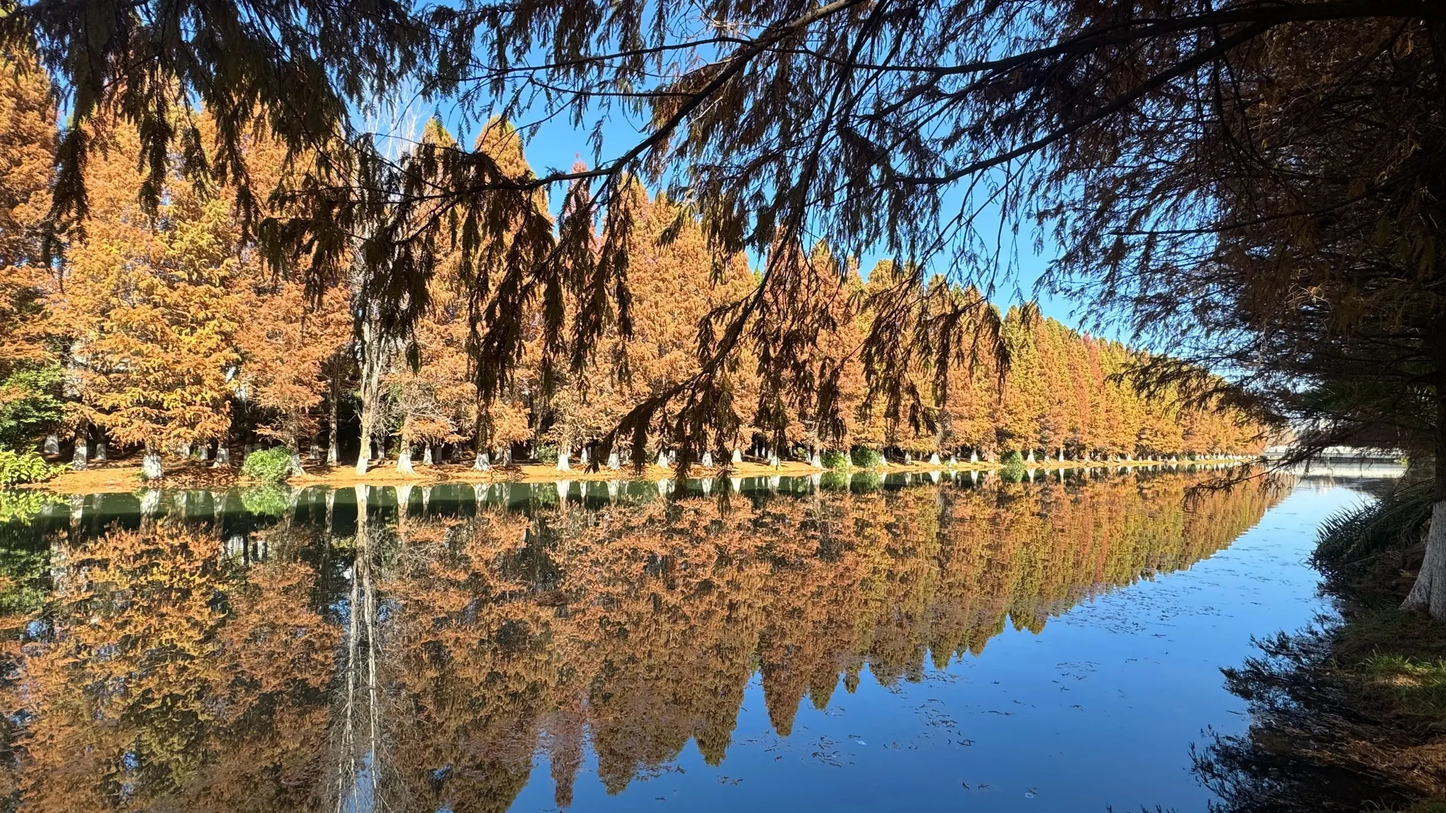
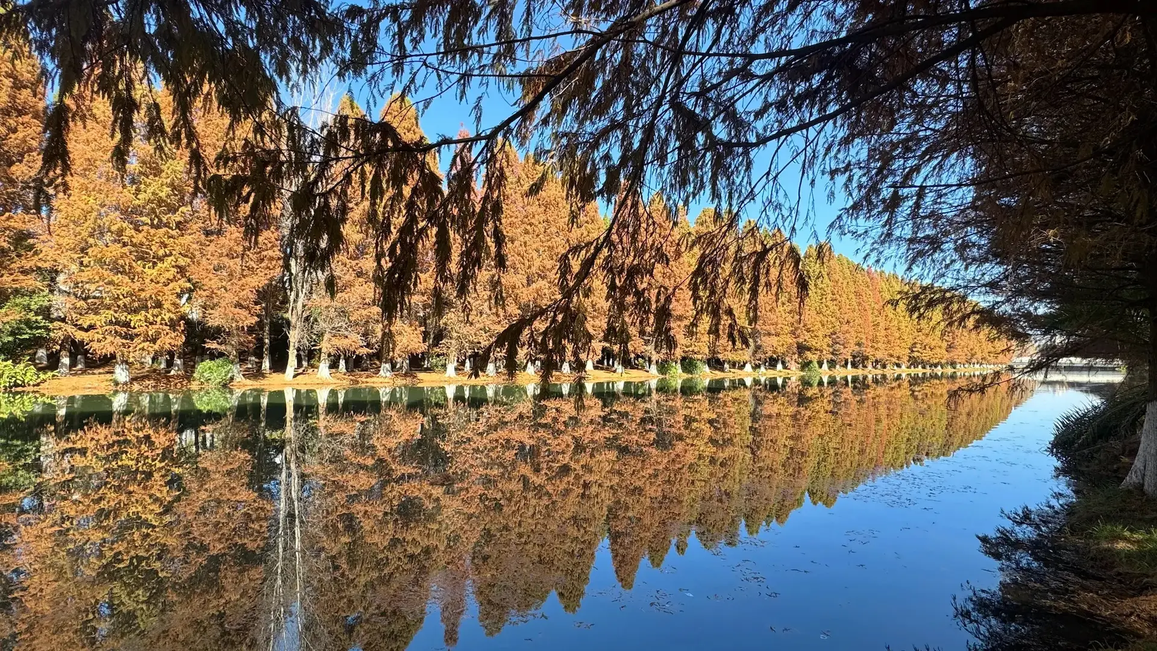
Shrink the oversized Yunnan Places photos so the mosaic does not ship 2400px tiles.
Lijiang and Kunming now match the content column; sizes hints stop Next from requesting full-viewport widths.

diff --git a/src/app/_components/destinations/destination-places.tsx b/src/app/_components/destinations/destination-places.tsx
@@ -40,7 +40,7 @@ export function DestinationPlaces({ cities, heading }: Props) {
               overlayTitle={featured.name}
               overlayMeta={featured.role}
               showCopy={false}
-              sizes="(max-width: 768px) 100vw, 66vw"
+              sizes="(max-width: 768px) 100vw, 700px"
             />
           </Link>
           {stacked.map((city) => (
@@ -62,7 +62,7 @@ export function DestinationPlaces({ cities, heading }: Props) {
             overlayTitle={gateway.name}
             overlayMeta={`${gateway.role} · ${gateway.pitch}`}
             showCopy={false}
-            sizes="100vw"
+            sizes="(max-width: 768px) 100vw, 992px"
           />
         </Link>
 
